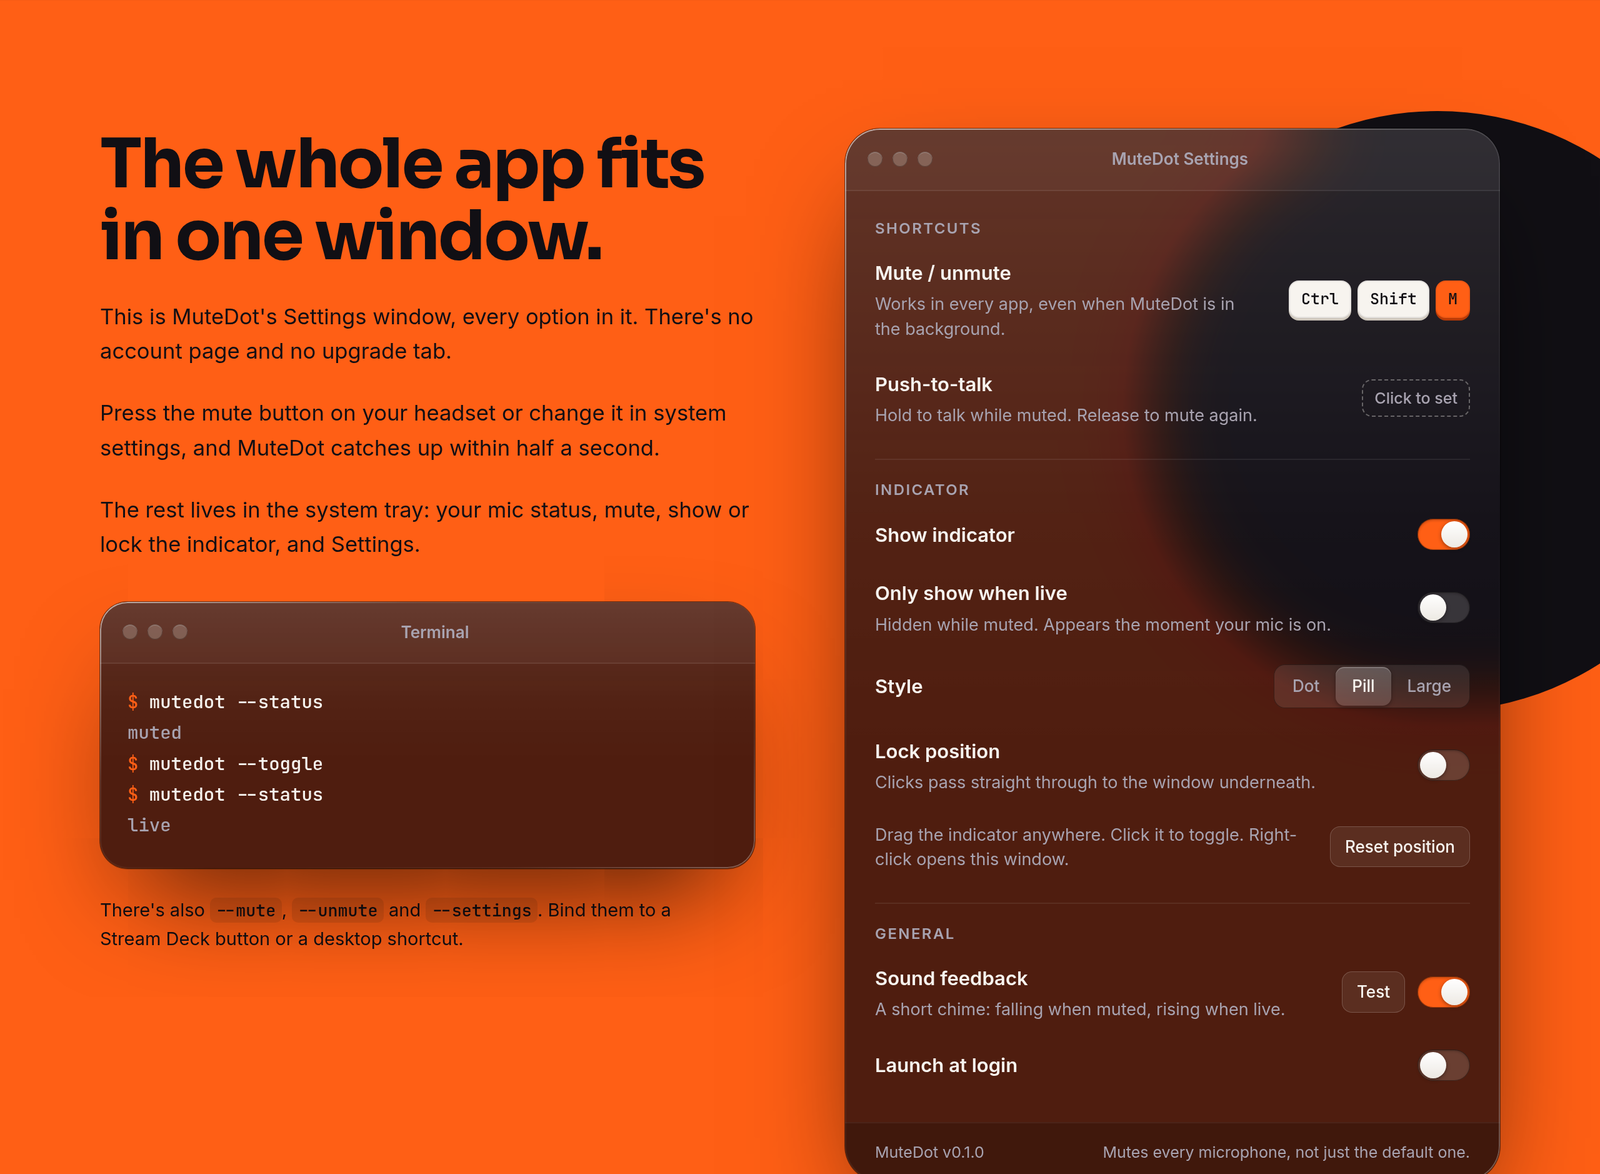
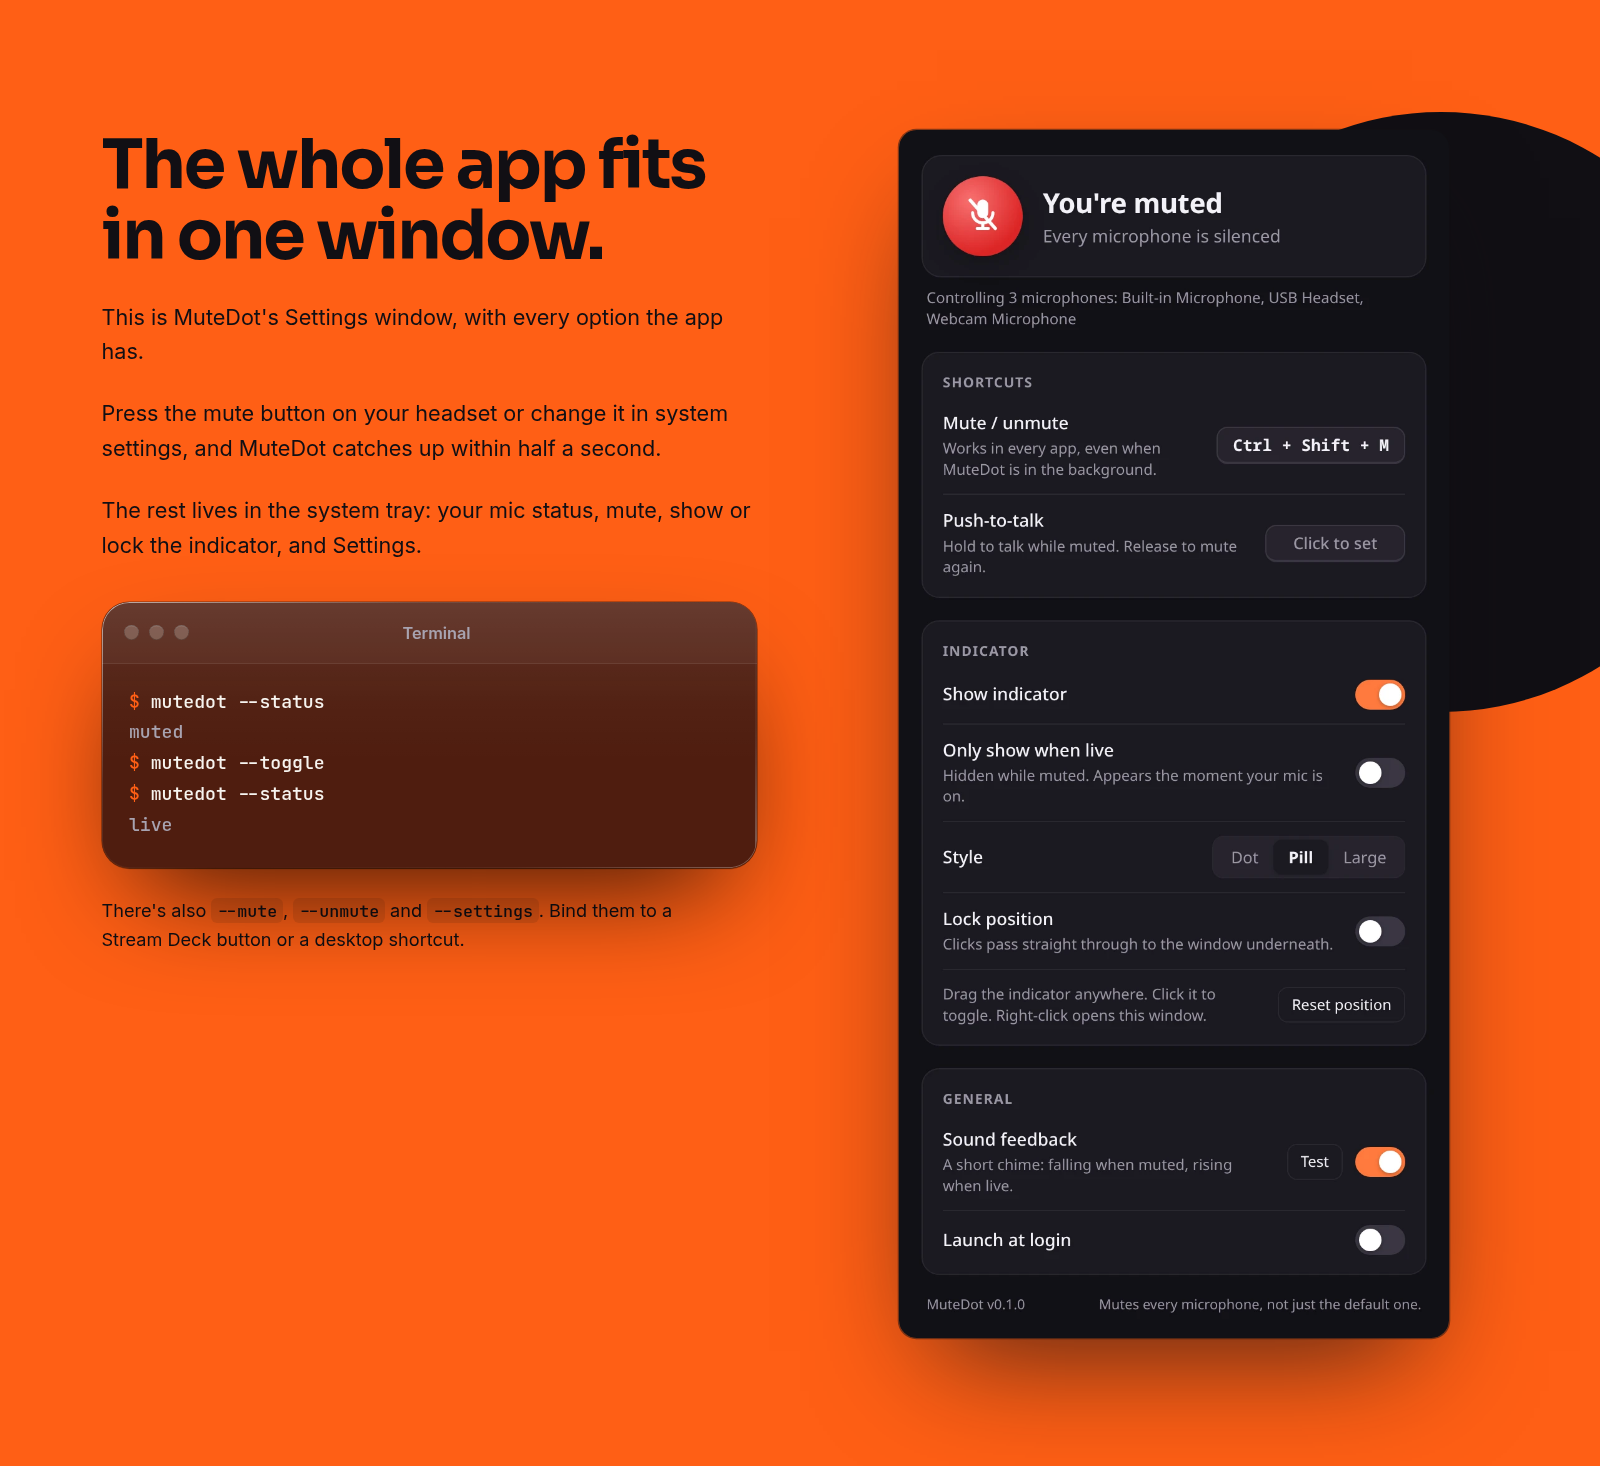
Use real screenshots of the Settings window and indicator

diff --git a/css/site.css b/css/site.css
@@ -250,20 +250,6 @@ a { color: var(--link); text-underline-offset: 3px; }
   100% { box-shadow: 0 0 0 14px rgba(34, 197, 94, 0); }
 }
 
-.ind--sm { font-size: 14px; gap: 10px; padding: 5px 18px 5px 5px; border-width: 1.5px; }
-.ind--sm .ind__icon { width: 30px; height: 30px; }
-.ind--sm .ind__icon svg { width: 16px; height: 16px; }
-.ind--lg { padding: 10px 30px 10px 10px; font-size: 24px; gap: 16px; }
-.ind--lg .ind__icon { width: 56px; height: 56px; }
-.ind--lg .ind__icon svg { width: 28px; height: 28px; }
-.ind-dot {
-  width: 40px; height: 40px; border-radius: 50%;
-  display: grid; place-items: center; color: #fff;
-  background: var(--live);
-  box-shadow: 0 0 0 5px var(--night), 0 0 0 7px rgba(34, 197, 94, .55);
-}
-.ind-dot svg { width: 22px; height: 22px; }
-.ind-dot--muted { background: var(--muted); box-shadow: 0 0 0 5px var(--night), 0 0 0 7px rgba(239, 68, 68, .55); }
 
 /* ---------- Hero ---------- */
 .hero { padding-block: calc(88px + var(--nav-h)) 112px; }
@@ -335,7 +321,7 @@ a { color: var(--link); text-underline-offset: 3px; }
   border-radius: var(--r-lg);
   --glass-dark: rgba(28, 26, 33, .42);
   padding: 28px;
-  display: grid; gap: 22px; align-content: start;
+  display: grid; gap: 22px; grid-template-rows: 1fr auto;
 }
 .style-card__show {
   display: grid; justify-items: center; align-content: center; gap: 18px;
@@ -346,7 +332,8 @@ a { color: var(--link); text-underline-offset: 3px; }
 }
 .style-card h3 { font-size: 22px; font-weight: 600; letter-spacing: -0.02em; }
 .style-card p { color: var(--mist); font-size: 15.5px; margin-top: 6px; }
-.dot-pair { display: flex; gap: 34px; }
+.style-card__show img { max-width: 100%; height: auto; }
+.style-card__show--row { grid-auto-flow: column; justify-content: center; gap: 34px; }
 .extras { list-style: none; padding: 0; margin: 44px 0 0; display: flex; flex-wrap: wrap; gap: 14px 36px; color: var(--paper); font-weight: 500; }
 .extras li { display: flex; align-items: center; gap: 12px; }
 .extras li::before { content: ""; width: 10px; height: 10px; border-radius: 50%; background: var(--orange); flex: none; }
@@ -357,7 +344,12 @@ a { color: var(--link); text-underline-offset: 3px; }
 @media (max-width: 980px) { .band--orange > .orb--ink { top: auto; bottom: 120px; } }
 .split--settings { align-items: start; }
 .split--settings .split__copy p { color: var(--ink); }
-.window.settings, .window.term { --glass-dark: rgba(17, 15, 20, .74); color: var(--paper); --fg2: var(--mist); }
+.shot { position: relative; z-index: 1; margin: 0; justify-self: center; width: 100%; max-width: 440px; }
+.shot img {
+  width: 100%; height: auto; border-radius: 14px;
+  box-shadow: 0 0 0 1px rgba(17, 15, 20, .5), 0 40px 90px -30px rgba(17, 15, 20, .75);
+}
+.window.term { --glass-dark: rgba(17, 15, 20, .74); color: var(--paper); --fg2: var(--mist); }
 
 .term { margin-top: 10px; border-radius: var(--r-md); }
 .term pre {
@@ -368,59 +360,8 @@ a { color: var(--link); text-underline-offset: 3px; }
 .term__out { color: var(--mist); }
 .split__copy .term__note { font-size: 14.5px; }
 
-.settings__body { padding: 6px 24px 8px; }
-.settings__group { padding: 18px 0 14px; }
-.settings__group + .settings__group { border-top: 1px solid rgba(247, 244, 239, .08); }
-.settings__group h3 {
-  font: 600 12px/1 var(--font-body); letter-spacing: .1em; text-transform: uppercase;
-  color: var(--mist); margin-bottom: 6px;
-}
-.srow { display: flex; align-items: center; justify-content: space-between; gap: 20px; padding: 11px 0; }
-.srow > div { display: grid; gap: 3px; min-width: 0; }
-.srow b { font-weight: 600; font-size: 15.5px; }
-.srow > div span { font-size: 13.5px; line-height: 1.45; color: var(--mist); }
-.settings__foot {
-  display: flex; flex-wrap: wrap; justify-content: space-between; gap: 4px 16px;
-  padding: 13px 24px; font-size: 12.5px; color: var(--mist);
-  background: rgba(0, 0, 0, .18); border-top: 1px solid rgba(247, 244, 239, .06);
-}
-
-.keys--sm { flex-wrap: nowrap; gap: 5px; flex: none; }
-.keys--sm .key { min-width: 0; height: 30px; padding: 0 9px; font-size: 12.5px; border-radius: 8px; box-shadow: 0 2px 0 var(--key-edge); }
-.keys--sm .key--hot { box-shadow: 0 2px 0 var(--ember); }
-.keys--sm .key--unset { background: transparent; color: var(--mist); font-family: var(--font-body); border: 1px dashed rgba(247, 244, 239, .35); box-shadow: none; }
-.srow__end { display: flex; align-items: center; gap: 10px; flex: none; }
-.ghost {
-  flex: none; padding: 6px 12px; border-radius: 8px; font-size: 13px; font-weight: 500; color: var(--paper);
-  background: rgba(247, 244, 239, .08); box-shadow: inset 0 0 0 .5px rgba(247, 244, 239, .2);
-}
 .term__note code { white-space: nowrap; font: 500 .92em var(--font-mono); background: rgba(17, 15, 20, .1); padding: .1em .35em; border-radius: 5px; }
 
-.switch {
-  position: relative; flex: none; width: 42px; height: 25px; border-radius: 999px;
-  background: rgba(247, 244, 239, .16);
-  box-shadow: inset 0 0 0 .5px rgba(0, 0, 0, .4), inset 0 1px 2px rgba(0, 0, 0, .3);
-}
-.switch::after {
-  content: ""; position: absolute; top: 2px; left: 2px; width: 21px; height: 21px; border-radius: 50%;
-  background: linear-gradient(#fff, #EDE9E3);
-  box-shadow: 0 1px 3px rgba(0, 0, 0, .4);
-}
-.switch.on { background: var(--orange); }
-.switch.on::after { left: 19px; }
-
-.seg {
-  display: inline-flex; flex: none; padding: 2px; border-radius: 9px;
-  background: rgba(247, 244, 239, .1);
-  box-shadow: inset 0 0 0 .5px rgba(0, 0, 0, .4);
-  font-size: 13px; font-weight: 500;
-}
-.seg span { padding: 5px 13px; border-radius: 7px; color: var(--mist); }
-.seg .on {
-  color: var(--paper);
-  background: linear-gradient(rgba(255, 255, 255, .22), rgba(255, 255, 255, .14));
-  box-shadow: inset 0 1px 0 rgba(255, 255, 255, .18), 0 1px 3px rgba(0, 0, 0, .35);
-}
 
 /* ---------- Works with (a glass dock) ---------- */
 .works { text-align: center; display: grid; gap: 28px; justify-items: center; }
@@ -547,8 +488,6 @@ a { color: var(--link); text-underline-offset: 3px; }
   .dock li { font-size: 15.5px; padding: 12px 16px; }
   .styles { grid-template-columns: minmax(0, 1fr); }
   .guides { grid-template-columns: minmax(0, 1fr); }
-  .srow { flex-wrap: wrap; gap: 10px 20px; }
-  .settings__body { padding-inline: 18px; }
   .nav__links { display: none; }
   .nav .btn { margin-left: auto; }
   .price__body { padding: 32px 24px 28px; }
@@ -557,8 +496,6 @@ a { color: var(--link); text-underline-offset: 3px; }
 @media (max-width: 400px) {
   .ind { font-size: 16px; padding-right: 22px; }
   .ind__icon { width: 38px; height: 38px; }
-  .ind--lg { font-size: 20px; }
-  .ind--lg .ind__icon { width: 50px; height: 50px; }
   .key { min-width: 44px; padding: 0 12px; font-size: 15px; }
   .demo { padding-inline: 18px; }
   .nav__logo img { height: 24px; }

diff --git a/index.html b/index.html
@@ -154,22 +154,23 @@
         <div class="orb orb--ember" aria-hidden="true"></div>
         <div class="styles">
           <article class="style-card glass">
-            <div class="style-card__show" aria-hidden="true">
-              <div class="dot-pair"><span class="ind-dot"><svg><use href="#i-mic"/></svg></span><span class="ind-dot ind-dot--muted"><svg><use href="#i-mic-off"/></svg></span></div>
+            <div class="style-card__show style-card__show--row">
+              <img src="img/indicator-dot-live.webp" width="77" height="77" loading="lazy" alt="Dot style, live: a green dot with a mic icon">
+              <img src="img/indicator-dot-muted.webp" width="77" height="77" loading="lazy" alt="Dot style, muted: a red dot with a crossed-out mic">
             </div>
             <div><h3>Dot</h3><p>A green or red dot with a mic icon. The smallest option.</p></div>
           </article>
           <article class="style-card glass">
-            <div class="style-card__show" aria-hidden="true">
-              <span class="ind ind--sm ind--live"><span class="ind__icon"><svg><use href="#i-mic"/></svg></span>LIVE</span>
-              <span class="ind ind--sm ind--muted"><span class="ind__icon"><svg><use href="#i-mic-off"/></svg></span>MUTED</span>
+            <div class="style-card__show">
+              <img src="img/indicator-pill-live.webp" width="172" height="84" loading="lazy" alt="Pill style showing LIVE in green">
+              <img src="img/indicator-pill-muted.webp" width="203" height="84" loading="lazy" alt="Pill style showing MUTED in red">
             </div>
             <div><h3>Pill</h3><p>The dot with LIVE or MUTED written next to it. This is the default.</p></div>
           </article>
           <article class="style-card glass">
-            <div class="style-card__show" aria-hidden="true">
-              <span class="ind ind--lg ind--live"><span class="ind__icon"><svg><use href="#i-mic"/></svg></span>LIVE</span>
-              <span class="ind ind--lg ind--muted"><span class="ind__icon"><svg><use href="#i-mic-off"/></svg></span>MUTED</span>
+            <div class="style-card__show">
+              <img src="img/indicator-large-live.webp" width="214" height="105" loading="lazy" alt="Large style showing LIVE in green">
+              <img src="img/indicator-large-muted.webp" width="253" height="105" loading="lazy" alt="Large style showing MUTED in red">
             </div>
             <div><h3>Large</h3><p>A larger version of the pill, easier to read from across a room or on a stream.</p></div>
           </article>
@@ -205,30 +206,9 @@
           <p class="term__note">There's also <code>--mute</code>, <code>--unmute</code> and <code>--settings</code>. Bind them to a Stream Deck button or a desktop shortcut.</p>
         </div>
 
-        <div class="window settings">
-          <div class="window__bar" aria-hidden="true"><div class="lights"><i></i><i></i><i></i></div><span class="window__title">MuteDot Settings</span></div>
-          <div class="settings__body">
-            <div class="settings__group">
-              <h3>Shortcuts</h3>
-              <div class="srow"><div><b>Mute / unmute</b><span>Works in every app, even when MuteDot is in the background.</span></div><span class="keys keys--sm" aria-label="Ctrl Shift M"><span class="key">Ctrl</span><span class="key">Shift</span><span class="key key--hot">M</span></span></div>
-              <div class="srow"><div><b>Push-to-talk</b><span>Hold to talk while muted. Release to mute again.</span></div><span class="keys keys--sm"><span class="key key--unset">Click to set</span></span></div>
-            </div>
-            <div class="settings__group">
-              <h3>Indicator</h3>
-              <div class="srow"><div><b>Show indicator</b></div><span class="switch on" role="img" aria-label="On"></span></div>
-              <div class="srow"><div><b>Only show when live</b><span>Hidden while muted. Appears the moment your mic is on.</span></div><span class="switch" role="img" aria-label="Off"></span></div>
-              <div class="srow"><div><b>Style</b></div><span class="seg" aria-label="Style: Pill"><span>Dot</span><span class="on">Pill</span><span>Large</span></span></div>
-              <div class="srow"><div><b>Lock position</b><span>Clicks pass straight through to the window underneath.</span></div><span class="switch" role="img" aria-label="Off"></span></div>
-              <div class="srow"><div><span>Drag the indicator anywhere. Click it to toggle. Right-click opens this window.</span></div><span class="ghost">Reset position</span></div>
-            </div>
-            <div class="settings__group">
-              <h3>General</h3>
-              <div class="srow"><div><b>Sound feedback</b><span>A short chime: falling when muted, rising when live.</span></div><span class="srow__end"><span class="ghost">Test</span><span class="switch on" role="img" aria-label="On"></span></span></div>
-              <div class="srow"><div><b>Launch at login</b></div><span class="switch" role="img" aria-label="Off"></span></div>
-            </div>
-          </div>
-          <p class="settings__foot"><span>MuteDot v0.1.0</span><span>Mutes every microphone, not just the default one.</span></p>
-        </div>
+        <figure class="shot">
+          <img src="img/settings.webp" width="440" height="967" loading="lazy" alt="MuteDot's Settings window in dark mode. At the top it says You're muted, every microphone is silenced, and that it's controlling 3 microphones. Below are the Shortcuts, Indicator and General sections with the default settings: Ctrl Shift M to mute, the Pill style, and sound feedback on.">
+        </figure>
       </div>
     </section>
 

diff --git a/README.md b/README.md
@@ -33,6 +33,7 @@
 | `buy/index.html` | Short link (`mutedot.xyz/buy/`) that redirects to checkout |
 | `404.html` | Not-found page |
 | `css/site.css` | Every style on the site |
+| `img/` | Screenshots of the app's Settings window and indicator, made by `brand/screenshots.py` in the app repo |
 | `fonts/` | Inter, Sora and JetBrains Mono (latin subset), served from the site so nothing loads from Google |
 | `robots.txt` · `sitemap.xml` | For search engines. Add new pages to the sitemap. |
 | `logo/svg/` | Lockups from the brand kit, unchanged |
@@ -45,11 +46,17 @@
 The site uses the brand kit's bold blocks of **Ink**, **Paper** and **Hot Orange**, plus macOS-style liquid glass:
 a floating capsule nav, and frosted windows with lit rims sitting over solid orange dots taken from the logo.
 
-<img src=".github/readme/settings.png" alt="The features section: a glass copy of MuteDot's Settings window with Shortcuts, Indicator and General options, beside a glass terminal running mutedot --status and --toggle" width="800">
+<img src=".github/readme/settings.png" alt="The features section: a screenshot of MuteDot's real Settings window in dark mode, beside a glass terminal running mutedot --status and --toggle" width="800">
 
-The Settings window and the terminal on the page copy the real app. They use the same rows,
-hints and defaults as the app's Settings window, and the same CLI flags.
-**If the app's settings change, update this section too.**
+The Settings window and the indicator styles are real renders of the app's UI, in `img/`.
+They come from the app repo's `brand/screenshots.py`, which loads `src/settings.html` and
+`src/dot.html` in headless Chromium with sample data (nothing on your machine gets muted):
+
+```bash
+cd ../mutedot && python3 brand/screenshots.py ../website/img
+```
+
+**If the app's UI changes, rerun it.** The hero demo and the terminal are drawn in CSS; the terminal uses the app's real CLI flags.
 
 <details>
 <summary><b>Brand tokens</b></summary>
